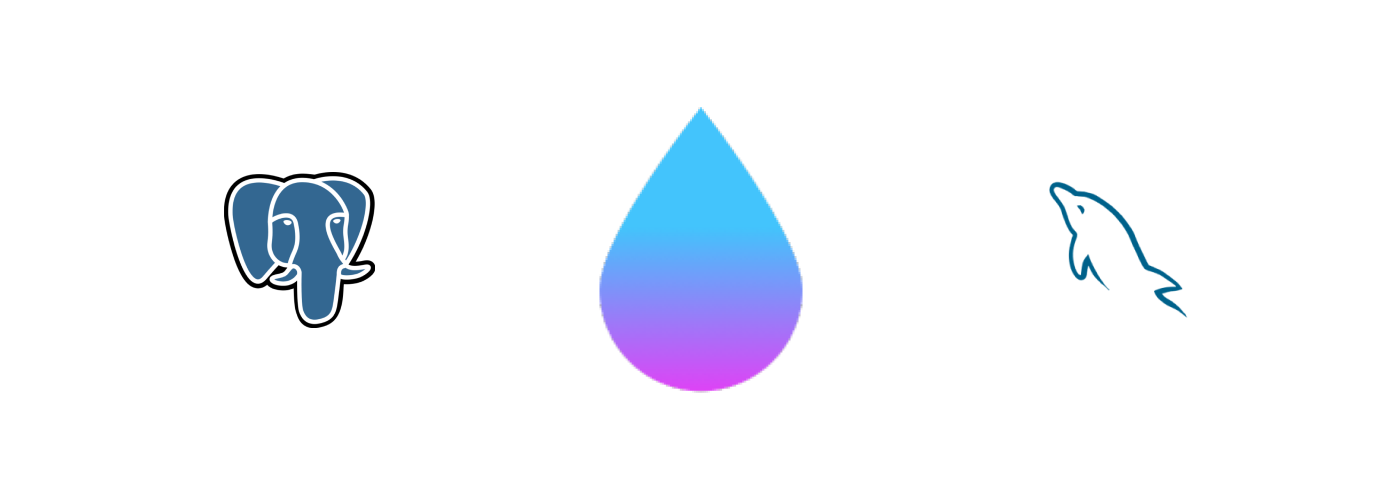
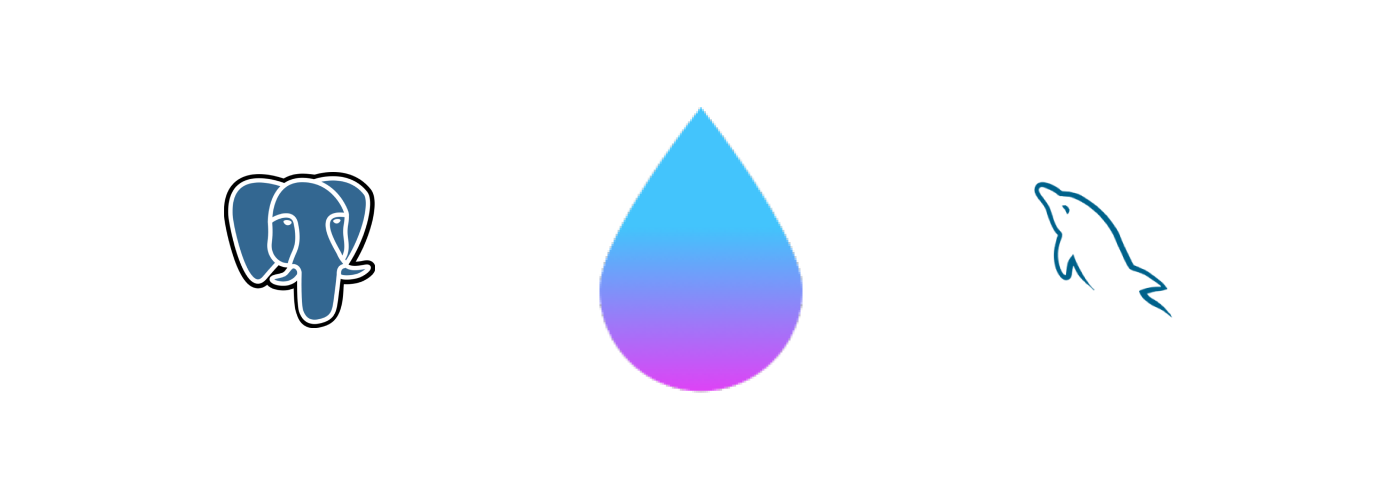
Updated VaporDatabaseHeader image spacing

Changed region(s): [[0.7371, 0.36, 0.86, 0.63]]

diff --git a/persisting-data-in-vapor-3/README.md b/persisting-data-in-vapor-3/README.md
@@ -123,13 +123,13 @@ Go to your `routes.swift` file. In the `routes` function, we will register a new
 
 https://gist.github.com/calebkleveter/9290413cf2e5a185d56eb0a73b29b2e9
 
-Unlike the `GET` routes that we have seen before, for this route we passed in the `User` type as the first parameter. This tells the router to decode the request's body to a `User` object and pass it into the route handler.
+Unlike the `GET` routes that we have seen before, for this route we passed in the `User` type in as the first parameter. This tells the router to decode the request's body to a `User` object and pass it into the route handler.
 
 What we want to do is take that `User` model passed into the handler, save it to the database, and return that same user as JSON. All we have to do is add `return user.save(on: request)` to out handler, so our route looks like this:
 
 https://gist.github.com/calebkleveter/8b4d321dc54650d2f983a35fb119dc02
 
-To test this route, we will want to use an API testing tool such as [Postman](https://www.getpostman.com/). Set the URL to `http://localhost:8080/users`, the HTTP method to `POST`, and add data to the request body for all the `User` model properties except `id`:
+To test this route, we will want to use an API testing tool such as [Postman](https://www.getpostman.com/). Set the URL to `http://localhost:8080/users`, the HTTP method to `POST`, and add a JSON object to the request's body that has all the `User` properties except for `id`:
 
 ![Test Create User Request](https://github.com/calebkleveter/Tutorials/blob/master/persisting-data-in-vapor-3/CreateUserRequest.png?raw=true)
 
